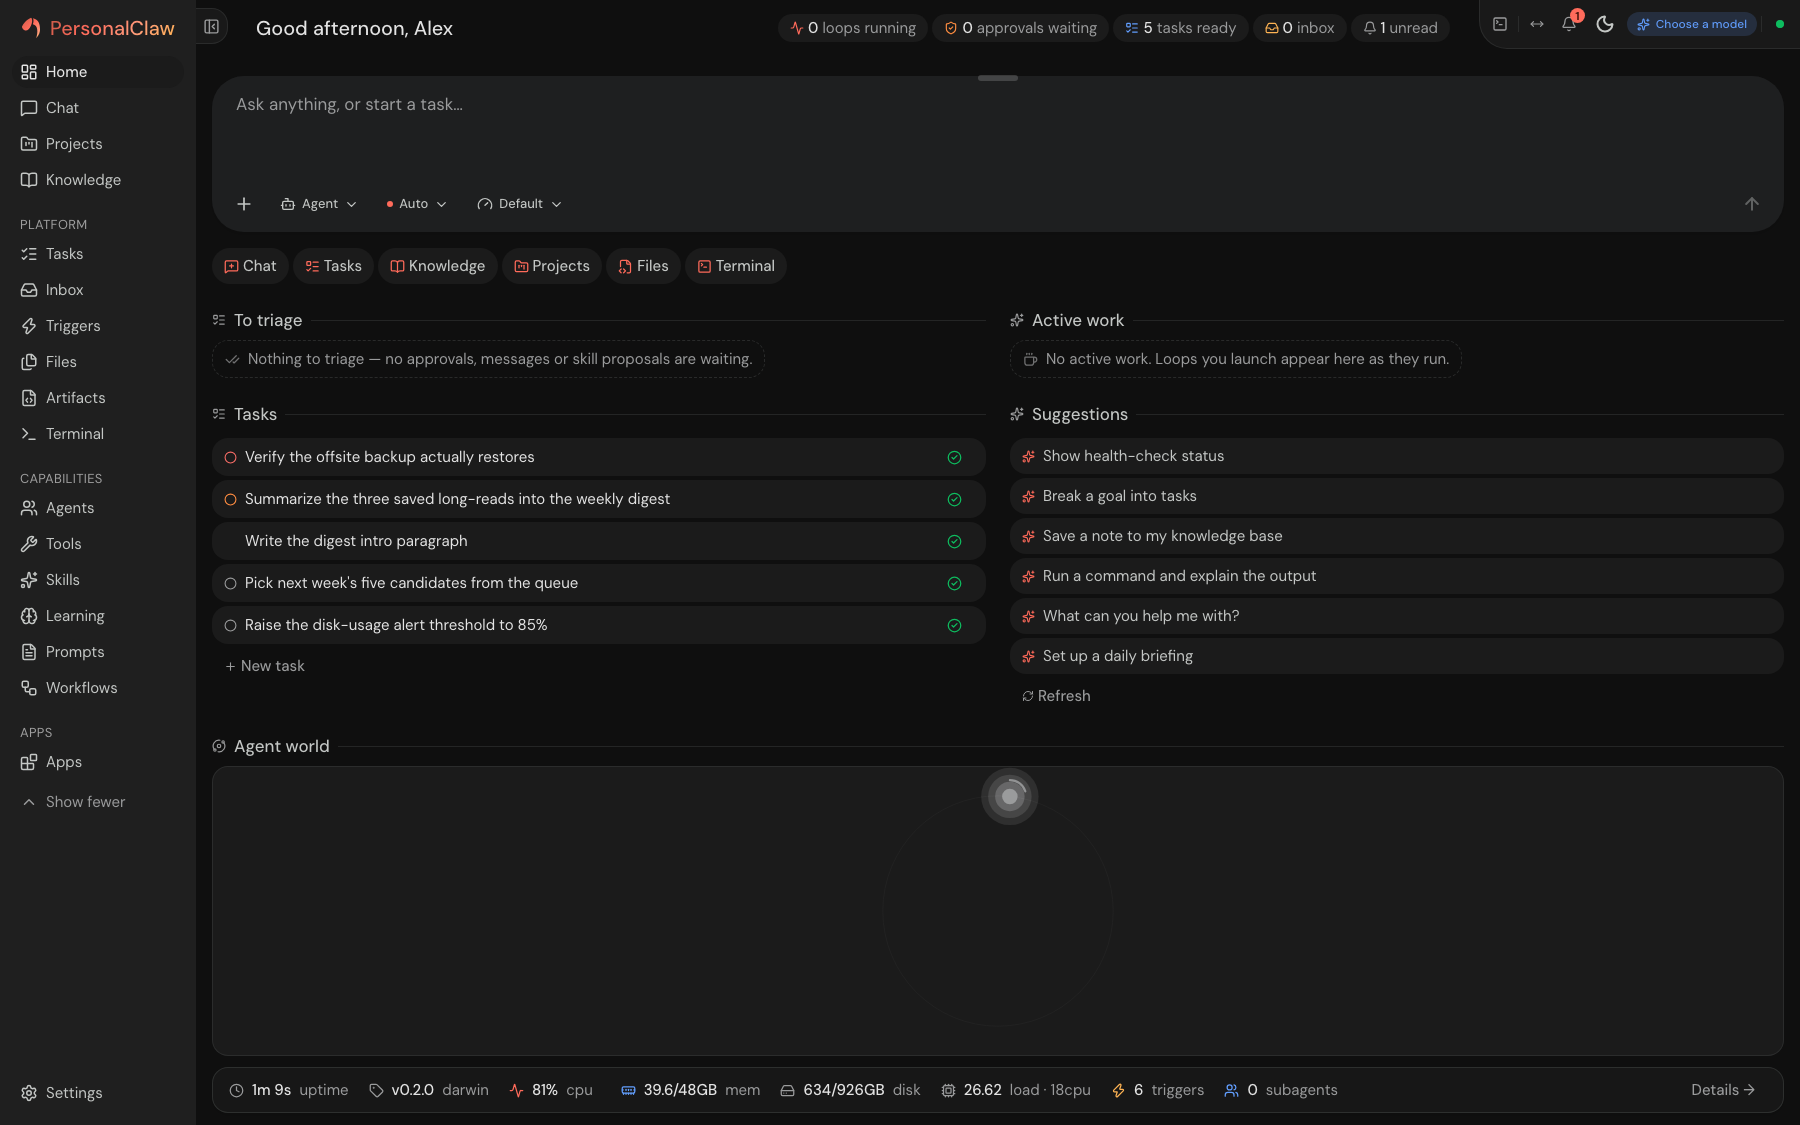
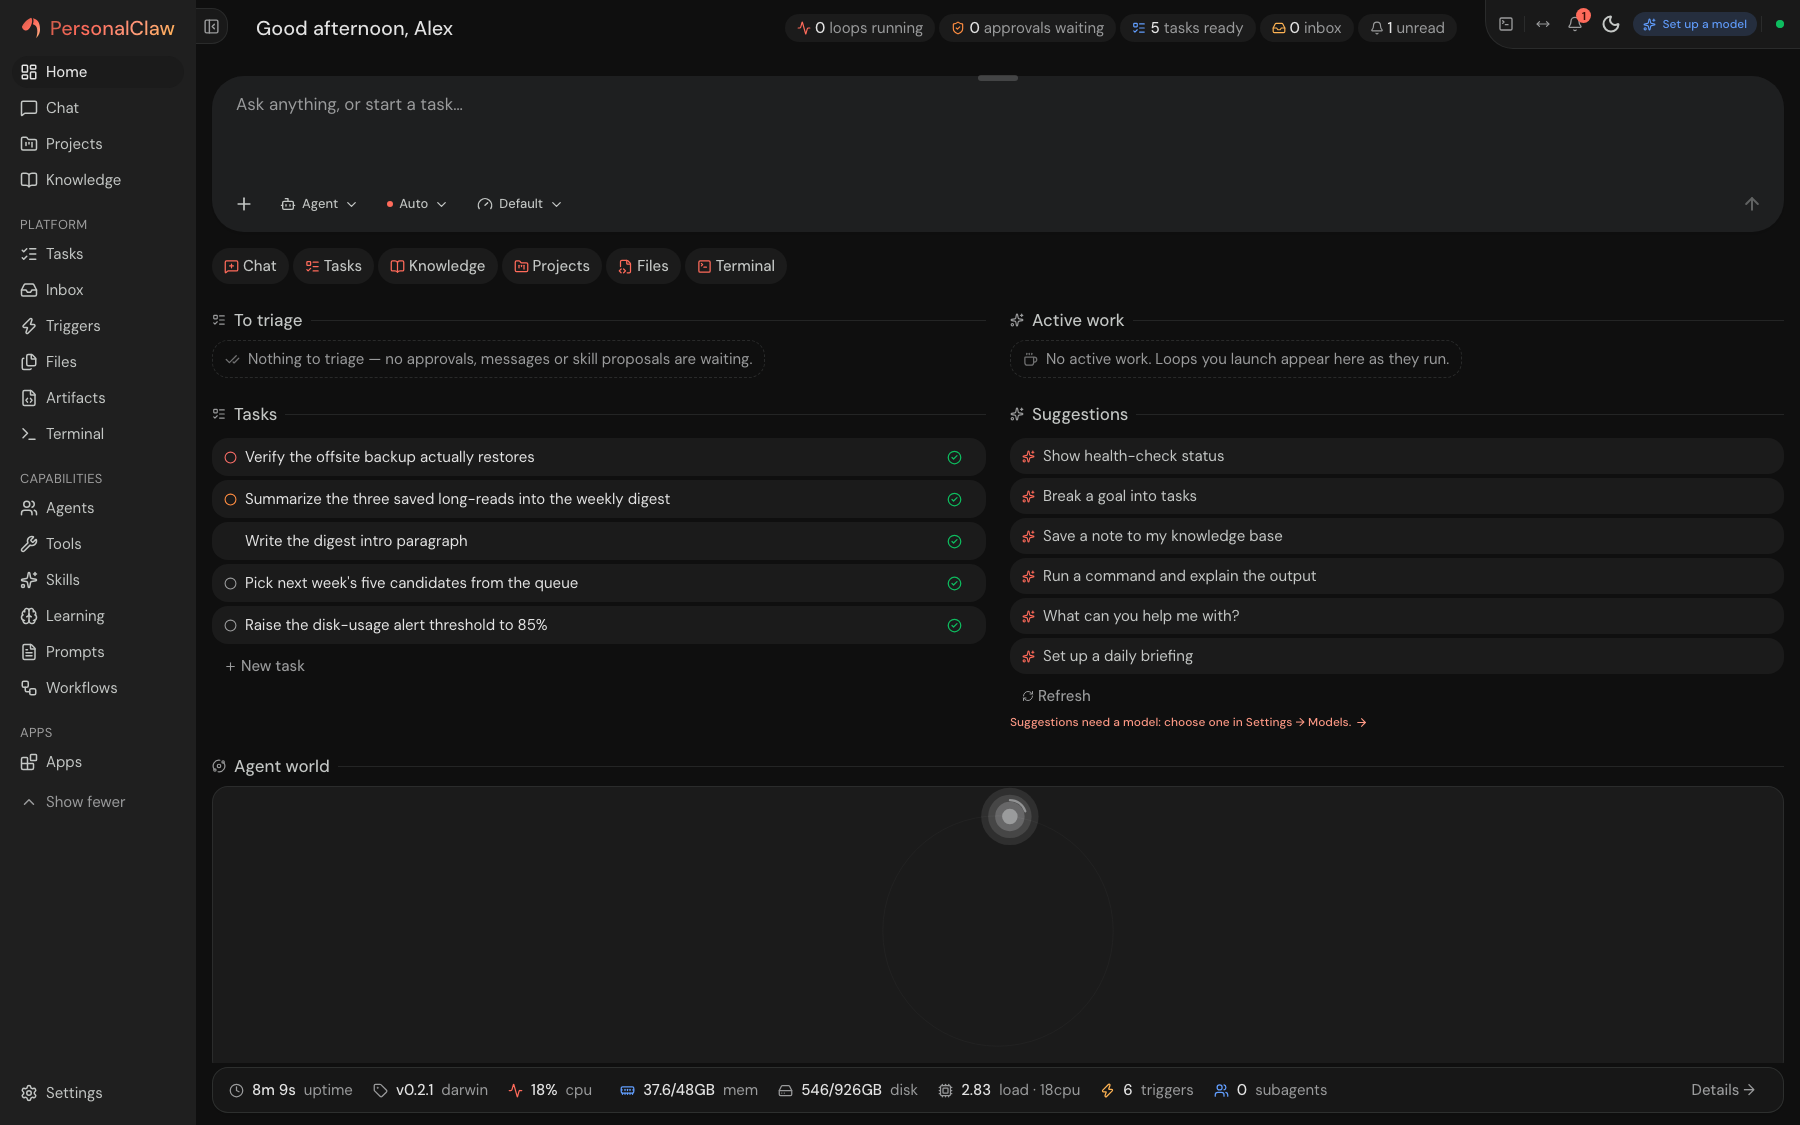
fix(pins): publish core and apps v0.2.1
Core and apps tagged v0.2.1 on 2026-10-15, and the site still pinned
v0.2.0, so release parity failed on every branch. This follows the
release the way docs/release-runbook.md says.

- The manifest pins core v0.2.1 (be97147cb) and apps v0.2.1 (4721d5b2),
  the commits the annotated tags resolve to, and package.json and the
  lockfile's root version move to 0.2.1. The registry pin stays at
  53c1bcd13, the registry's current commit.
- /compare is re-verified row by row at the v0.2.1 tag, and every row
  cites it. Two cited lines moved and both rows still hold:
  verify_integrity is sel.py:787 and the audit job is full.yml:239. The
  audit log row adds a gap v0.2.1 opens. On Linux, once the gateway
  rotates the log, the tool server an agent CLI runs writes a row it can
  no longer append to its own stderr instead. The desktop row names the
  three files the v0.2.1 Release attaches: the Apple-silicon dmg, the
  AppImage and the deb.
- Core v0.2.1 links the Windows heading by its real anchor, so the
  DEAD_FRAGMENTS entry for the dated one goes. The docs sync fails on an
  entry the pinned text no longer contains.
- Two shipping screenshots show something v0.2.1 changed. The
  dashboard's system rail names the version, and the Store lists Amazon
  Bedrock 0.1.16. Both are recaptured from the released 0.2.1 wheel on
  its demo-home fixture, with the five apps the last capture had
  installed. That home has no model, so the dashboard says "Set up a
[…]

diff --git a/tests/browser/interactions.spec.ts b/tests/browser/interactions.spec.ts
@@ -42,7 +42,7 @@ test("app directory preserves deep-linked filters and can recover from no result
     "true"
   );
   // Exact on purpose: a directory entry disappearing should fail, not be tolerated.
-  // Tracks the first-party app count of the pinned release (69 at v0.2.0).
+  // Tracks the first-party app count of the pinned release (69 at v0.2.1).
   await expect(page.locator(".app-card")).toHaveCount(69);
   await expect(page).toHaveURL("/apps");
   runtime.assertClean();
